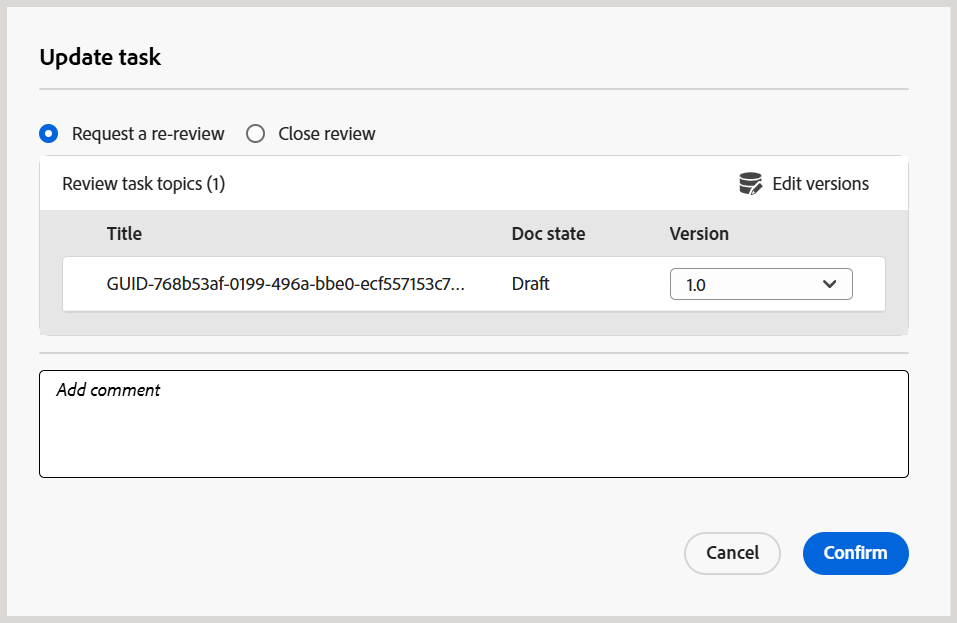
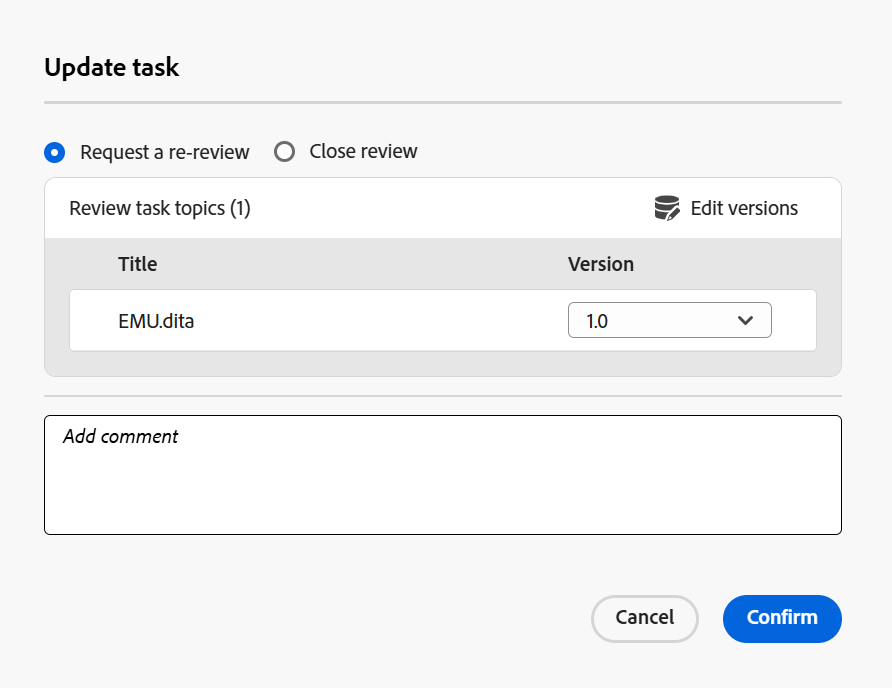
checking-in 5.1.0 docs
Checking in fixed issues updates and upgrade inst. docs, and updates to the review doc ( screenshot is updated and a line about resizable dialog is added.)

Changed region(s): [[0.0, 0.0, 1.0, 1.0], [0.0605, 0.7624, 0.9383, 0.7929]]

diff --git a/help/product-guide/install-guide/upgrade-xml-documentation.md b/help/product-guide/install-guide/upgrade-xml-documentation.md
@@ -37,6 +37,7 @@ For more details, refer to the following procedures:
 -   [Upgrade to version 4.4.0](#upgrade-to-version-440)
 -   [Upgrade to version 4.6.0](#upgrade-to-version-460)
 -   [Upgrade to version 5.0.0](#upgrade-to-version-500)
+-   [Upgrade to version 5.0.0](#upgrade-to-version-510)
 
 
 
@@ -1297,6 +1298,171 @@ Index definition is updated for damAssetLucene with Guides. Refer to [this artic
 >[!NOTE]
 >
 > While following the documentation make sure both properties (reindex=true and reindex-async=true for /oak:index/damAssetLucene) are updated simultaneously via save operation.
+
+## Upgrade to version 5.1.0
+
+>[!TIP]
+>
+> Upgrading to version 5.1.0 depends on the current version of Experience Manager Guides. If you are using version 4.6.3, 4.6.4, 5.0.0, or 5.0.0 Service Pack 1, then you can directly upgrade to version 5.1.0. 
+
+>[!NOTE]
+>
+> The post-processing and indexing may take a few hours. We recommend you to start the upgrade process during the off-peak hours.
+
+****Prerequisites****
+
+Before you start the Experience Manager Guides 5.1.0 upgrade process, ensure that you have:
+
+1. Upgraded to Experience Manager Guides version 4.6.3, 4.6.4, 5.0.0, or 5.0.0 Service Pack 1, and completed their respective installation step.
+1. (Optional) Closed all translation tasks.
+1. Changed the log level to **INFO** for `com.adobe.fmdita.translationservices.TranslationMapUpgradeScript` class and append these logs in a new log file, for example, `logs/translation_upgrade.log`.
+
+
+## Install version 5.1.0 
+
+1. Download 5.1.0 version package from [Adobe Software Distribution Portal](https://experience.adobe.com/#/downloads/content/software-distribution/en/aem.html).
+1. Install version 5.1.0 package.
+1. You can choose to HIT the trigger to start the translation map upgrade job. For details, see [Enable trigger of script via a Servlet](#enable-trigger-of-script-via-a-servlet).
+
+1.  After you complete the package installation, wait for the following message\(s\) in the logs:
+
+    `Completed the post deployment setup script`
+
+    The above message indicates that all the steps of installation are complete.
+
+    In case you encounter any of the following ERROR prefixes, report them to your customer success team:
+
+    -   Error in post deployment setup script
+    -   Exception while porting the translation MAP
+    -   Unable to port translation map from v1 to v2 for property
+1.  Upgrade Oxygen connector plugin released with version 5.1.0 \(if needed\).
+1.  Clear the browser cache after installing the package.
+
+## After you install version 5.1.0
+
+After you install Experience Manager Guides, you may merge the various configurations applicable from the newly installed version to your setup.
+
+>[!NOTE]
+>
+> The dam-update-asset model may be customized. So, if any customizations have been done, then we need to sync the customizations and Experience Manager Guides into the working copy of the model.
+
+1.  **DAM Update Asset workflow \(Post-processing changes\):**
+
+1.  Open URL:
+
+    ```
+    http://localhost:4502/libs/cq/workflow/admin/console/content/models.html 
+    ```
+
+1.  Select **DAM Update Asset workflow**.
+1.  Select **Edit**.
+1.  If the **DXML Post Process Initiator** component is present, ensure that the customizations are synced.
+1.  If the **DXML Post Process Initiator** component is absent, perform the following steps to insert it:
+
+1.  Select **Insert component** \(Responsible for Experience Manager Guides post-processing as the final step in the process\).
+1.  Configure the **Process step** with below details:
+
+    **Common tab**
+
+    **Title:** DXML Post Process Initiator
+
+    **Description**: DXML post process initiator step which will trigger a sling job for DXML post-processing of the modified/created asset
+
+    **Process tab**
+
+    - Select **DXML Post Process Initiator** from the **Process** drop down
+
+    - Select **Handler Advance**
+
+    - Select **Done**
+
+1.  Select **Sync** on the top right after completing the changes. You will receive a success notification.
+
+    >[!NOTE]
+    >
+    > Refresh and verify that customized changes and the Experience Manager Guides post-processing step is present in the final workflow model.
+
+1.  Once **DAM Update Asset workflow** is validated, check corresponding launcher configurations. To do so, go to AEM Workflow interface and open launchers.
+
+    ```http
+    http://localhost:4502/libs/cq/workflow/content/console.html
+    ```
+
+    Find and make changes \(if necessary\) to the following two launchers \(that should be active\) corresponding to **DAM Update Asset workflow**:
+
+1.  Launcher for "*Node Created*" for **DAM Update Asset workflow**- for condition `"jcr:content/jcr:mimeType!=video"`, the 'Globbing' value should be:
+
+    ```json
+    /content/dam(/((?!/subassets|/translation_output).)*/)renditions/original
+    ```
+
+    -   'excludeList' should have `"event-user-data:changedByWorkflowProcess"`.
+    -   Launcher for "*Node Modified*" for **DAM Update Asset workflow -** for condition "`jcr:content/jcr:mimeType!=video`", the 'Globbing' value should be:
+
+    ```json
+    /content/dam(/((?!/subassets|/translation_output).)*/)renditions/original
+    ```
+    
+    - `excludeList` should have `"event-user-data:changedByWorkflowProcess"`.
+
+1.  Once the upgrade is complete, ensure any of the customizations/overlays are validated and updated to match the new application code. Some examples are given below:
+    -   Any components overlayed from/libs/fmditaor/libsshould be compared with the new product code and updates should be done in overlayed files under/apps.
+    -   Any clientlib categories used from product, should be reviewed for changes. Any overridden configurations \(examples below\) should be compared with the latest ones so as to get the latest features:
+    -   elementmapping.xml
+    -   ui\_config.json\(may have been set in folder profiles\)
+    -   amended `com.adobe.fmdita.config.ConfigManager`
+
+1. If you have added any customizations in damAssetLucene, you may need to apply them again. After making those changes, set reindex as true. This will reindex all the existing nodes with the customizations. Once completed, the reindex flag will be set to false again. This may take a few hours depending on number of assets in the system.
+
+## Steps to reindex the Experience Manager Guides indexes
+
+1. Open `crx/de` and navigate to the index path:  `/oak:index/guidesAssetProperties`
+2. Set the reindex property as `true` (`false` by default) and click **Save All**.
+3. Once the reindex is complete, the reindex property is set to `false` again, and the reindex count is incremented by 1. 
+
+    >[!NOTE]
+    >
+    > This may take a few minutes, depending on the amount of data present.
+4. Follow the same steps for other added or modified indices: `guidesBulkActivation`, `guidesPeerLinkIndex`,  and `guidesKonnectTemplateIndex`. 
+
+## Steps to index the existing content
+
+
+
+Perform the following steps for indexing the existing content:
+
+- Run a POST request to the server \(with correct authentication\) - `http://<server:port\>/bin/guides/map-find/indexing`. (Optional: You can pass specific paths of the maps to index them, by default all maps will be indexed || Example : `https://<Server:port\>/bin/guides/map-find/indexing?paths=<map\_path\_in\_repository\>`)
+
+-   The API will return a jobId. To check the status of the job, you can send a GET request with job id to the same end point - `http://<server:port\>/bin/guides/map-find/indexing?jobId=\{jobId\}`\(for example: ` http://localhost:8080/bin/guides/map-find/indexing?jobId=2022/9/15/7/27/7dfa1271-981e-4617-b5a4-c18379f11c42_678`)
+
+-   Once the job is complete, the above GET request will respond with success and mention if any maps failed. The successfully indexed maps can be confirmed from the server logs.
+
+
+>[!NOTE]
+>
+> If you are using the custom schema, you must define the path of the custom DTD and XSD catalog.xml files in the AEM repository in the **Integrate Catalogs** option.
+
+
+
+
+## Steps to handle the `'fmdita rewriter'` conflict
+
+Experience Manager Guides has a [**custom sling rewriter**](../cs-install-guide/conf-output-generation.md#custom-rewriter) module for handling the links generated in case of cross-maps (links between the topics of two different maps).
+
+If you have another custom sling rewriter in your codebase,  use an `'order'` value greater than 50, as Experience Manager Guides sling rewriter uses `'order'` 50.  To override this, you need a value >50. For more details, view [Output Rewriting Pipelines](https://sling.apache.org/documentation/bundles/output-rewriting-pipelines-org-apache-sling-rewriter.html).
+
+During this upgrade, since the `'order'` value is changed from 1000 to 50, you need to merge the existing custom rewriter, if any, with `'fmdita-rewriter'`.
+
+
+
+## Steps to reindex the damAssetLucene
+
+Index definition is updated for damAssetLucene with Guides. Refer to [this article](https://experienceleague.adobe.com/en/docs/experience-cloud-kcs/kbarticles/ka-16460) for reindexing the damAssetLucene after upgrading to 5.1.0 version.
+
+>[!NOTE]
+>
+> While following the documentation make sure both properties (reindex=true and reindex-async=true for /oak:index/damAssetLucene) are updated simultaneously via save operation.
+
 
 
 **Parent topic:** [Download and install](download-install.md)

diff --git a/help/product-guide/release-info/fixed-issues-5-1-0.md b/help/product-guide/release-info/fixed-issues-5-1-0.md
@@ -19,7 +19,6 @@ Learn about [upgrade instructions for the 5.1.0 release](upgrade-instructions-5-
 - Refreshing the page after adding custom buttons to the left panel creates duplicate tabs. (GUIDES-30899)
 - When XML content containing angular brackets (such as </ or />) is added within a `code block` element in a topic, the code block element appears blank in the final output. (GUIDES-31007)
 - The values of global variables `canCheckIn` and `canCheckOut` are not being set correctly when a file is checked out and checked in from the Editor toolbar.(GUIDES-29890)
-- When opening a DITA map with the unified shell enabled, the Editor refreshes intermittently.(GUIDES-26919)
 - When a DITA map is selected in Map view, the selection count is displayed incorrectly at first because the child nodes of the map are not selected. The correct selection count and inclusion of all child nodes are only reflected upon subsequent selection. (GUIDES-25663)
 - Markdown files are not retrieved when searched in the Repository panel using the **DITA topic** filter. Also, the **Find and Replace** do not work for Markdown files and related content. (GUIDES-27133)
 - Unable to customize the **Menu dropdown** of Editor toolbar using the extension framework. As a result, you can not hide or show any existing buttons or add new buttons in the Menu dropdown. (GUIDES-28748) 
@@ -53,6 +52,7 @@ Learn about [upgrade instructions for the 5.1.0 release](upgrade-instructions-5-
 - Error occurs on uploading assets with unsupported or forbidden characters in the filenames. (GUIDES-28845)
 - When opening a topic in Author view after a browser refresh, previously applied tags in the File Properties panel are not retained, and adding new tags overwrites the existing ones, particularly when a large number of tags are available for selection. (GUIDES-29078)
 - When generating a Metadata report for a DITA map containing a large number of assets, the **Manage** button becomes unresponsive or exhibits a delayed response. (GUIDES-28443)
+- Document state from the working copy of a topic is displayed against all the versions of that topic in the Translation and Baseline UI. (GUIDES-20674) 
 
 ## Review
 
@@ -69,33 +69,28 @@ Learn about [upgrade instructions for the 5.1.0 release](upgrade-instructions-5-
 - In the Native PDF output, the List of Index (LOI) appears in a non-alphabetical order and nested index terms are not grouped properly, making the index difficult to navigate. (GUIDES-29090)
 - The **Map page template** and **Topic page template** dropdown list in the AEM Sites component mapping output preset page appears blank when the destination path contains a variable with a colon. (GUIDES-28119)
 - When a DITA map contains different types of topic references such as Concept, Reference or Task, and it is merged using the `chunk=to-content` attribute to generate single page output on AEM Sites with component mapping, the content does not get published properly due to publishing errors. (GUIDES-28118)
-- Code quality error occurs when deploying the AEM Sites publishing components package `guides-components.all-1.3.0.zip` through Cloud Manager. (GUIDES-28873)
 - Publishing a DITA map with `chunk=to-content` attribute creates duplicate JCR nodes in the new AEM Sites output, leading to redundant content structure in AEM Sites. (GUIDES-28104)
 - When publishing a DITA map using the new AEM Sites output, if a topic has the `chunk =to-content` attribute and the output is set to use topic titles as page names, the generated page name incorrectly displays the word **chunk** instead of retaining the original topic name. (GUIDES-28102)
 - The `cq:template` property set in the AEM Guides topic template for new AEM Sites publishing displays an incorrect value, affecting template structure and content rendering. (GUIDES-27789)
 - Native PDF publishing continues indefinitely, if the DITA content has a weblink without having scope as `external`. (GUIDES-26434) 
 - Publishing of Native PDFs and AEM sites stalls and gets queued, when there are errors in the content. (GUIDES-26516)
-- When creating a new baseline with a large number of labels, it prevents all the labels from being fetched. (GUIDES-16232)
 - When generating AEM Site pages with titles that include multiple words separated by spaces, the map title displays hyphens instead of spaces. (GUIDES-27903)
 - For Native PDF, an invalid metadata property name is not getting resolved and is displayed as `unresolved property name` in **document properties**. (GUIDES-25680)
 - Multi-line text within `codeblock` causes text overflow issues during PDF generation. (GUIDES-15541)
 - When adding maps to the map collection, assets other than maps (likes topics etc.) are displayed, and the translated map languages are also not properly sorted.(GUIDES-25085)
 - In the legacy AEM Sites output, section links within nested topics of a map do not resolve correctly when manually set in Source mode or the content is imported from an external source. Instead of navigating to the intended section, they redirect to the main topic that contains the nested topic. (GUIDES-26103)
-- If the `scope=external` attribute is missing from external links in a DITA topic, HTML5 publishing fails without indicating the files where this attribute is missing in the error logs, especially when the microservice is enabled. (GUIDES-25969) 
+- If the `scope=external` attribute is missing from external links in a DITA topic, HTML5 publishing fails without indicating the files where this attribute is missing in the error logs. (GUIDES-25969) 
 - Unable to embed video links in Native PDF even when the **Embed Multimedia Files** option is enabled in the PDF preset. (GUIDES-9989)
 - Unable to pass the metadata properties to map landing pages generated using new AEM Sites publishing. (GUIDES-27288) 
 
 ## Baseline
 
 - Copying a DITA map from the Assets UI also copies its attached Baseline to the new map. (GUIDES-11227)
+- When creating a new baseline with a large number of labels, it prevents all the labels from being fetched. (GUIDES-16232)
 
 ## Home page 
 
 - The Home page goes blank when one of the files listed in the **Recent files** widget is based on a template whose source template does not include a thumbnail. (GUIDES-31506)
-
-## Management 
-
-- Document state from the working copy of a topic is displayed against all the versions of that topic in the Translation and Baseline UI. (GUIDES-20674) 
 
 ## Platform
 

diff --git a/help/product-guide/user-guide/review-close-review-task.md b/help/product-guide/user-guide/review-close-review-task.md
@@ -37,14 +37,16 @@ As the initiator of the review task, you can then decide how to proceed based on
     The **Task comments** dialog is displayed on the right. 
 
     ![](images/task-comments-dialog-editor.png){width="350" align="left"}.
-4. Select **Update task** to take further action on the selected review task.     
+4. Select **Update task** to take further action on the selected review task.      
 5. In the **Update task** dialog, choose one of the following actions:
 
     - **Reqest a re-review**: Initiates another round of review. You can select a different version of the topic for review. By default, the latest (or the last-edited) version of the topic or map file sent for review is selected. Reviewers who completed the previous review will receive a notification to provide feedback on the updated version. Other Reviewers, who haven't marked the review task as complete, are notified about the topic update.       
 
     - **Close review**: Closes the review task. The **Update task** button present at the bottom of the Review panel changes to **Closed** and a notification is sent to all users involved in the review task indicating its closure.
     
-    For more details on how review notifications trigger, view [Understanding review notifications](./review-understanding-review-notifications.md).
+    To adjust the display area, resize the **Update task** dialog vertically by dragging its top or bottom edge. 
+
+    For details on how review notifications trigger, view [Understanding review notifications](./review-understanding-review-notifications.md).
 
     ![](images/update-task-dialog.png).
         

diff --git a/help/product-guide/release-info/upgrade-instructions-5-1-0.md b/help/product-guide/release-info/upgrade-instructions-5-1-0.md
@@ -53,7 +53,8 @@ For more details, view the [Technical requirements](../install-guide/download-in
 
 You can easily upgrade your current version of Guides to version 5.1.0. Before you proceed with upgrading to version 5.1.0 of Experience Manager Guides, you must consider the following points:
 
-- If you are using version 4.6.3, 4.6.1, 4.6, or 4.4, then you can directly upgrade to version 5.1.0. 
+- If you are using version 4.6.3, 4.6.4, 5.0.0, or 5.0.0 Service Pack 1, then you can directly upgrade to version 5.1.0. 
+- If you are using version 4.6.0, 4.6.1, then you need to upgrade to version 4.6.3 or 4.6.4 or 5.0.0 before upgrading to version 5.1.0. 
 - If you are using version 4.3.x, 4.2, 4.2.1 (Hotfix 4.2.1.3), 4.1, or 4.1.x then you need to upgrade to version 4.4 before upgrading to version 5.1.0.
 - If you are using version 4.0 you need to upgrade to version 4.2 before upgrading to version 4.3.x.
 - If you are using version 3.8.5, you need to upgrade to version 4.0 before upgrading to version 4.2.
